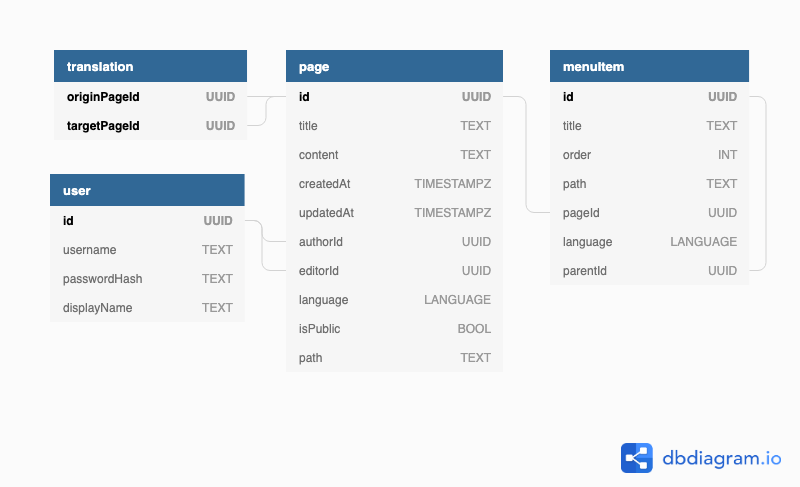
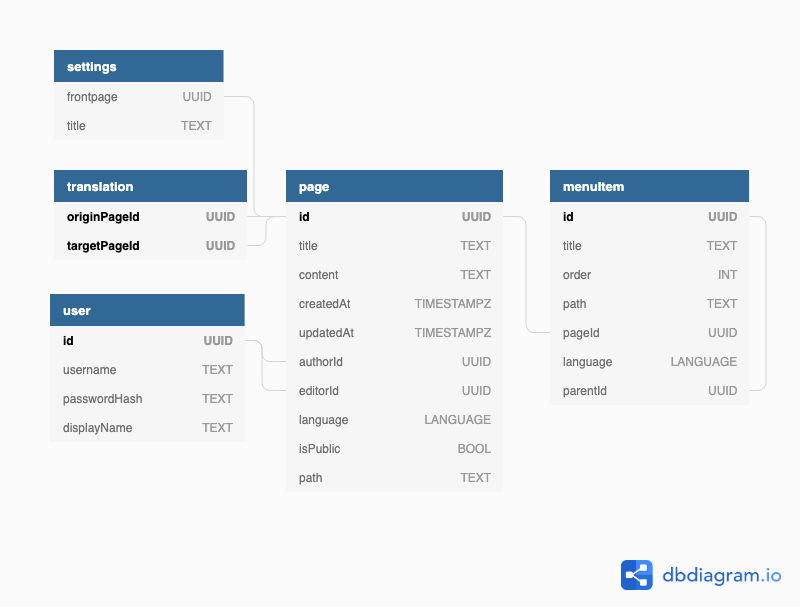
Add settings table

diff --git a/cms/migrations/1603557012887-AddSettingsTable.ts b/cms/migrations/1603557012887-AddSettingsTable.ts
@@ -1,0 +1,16 @@
+import {MigrationInterface, QueryRunner} from "typeorm";
+
+export class AddSettingsTable1603557012887 implements MigrationInterface {
+    name = 'AddSettingsTable1603557012887'
+
+    public async up(queryRunner: QueryRunner): Promise<void> {
+        await queryRunner.query(`CREATE TABLE "settings" ("id" uuid NOT NULL DEFAULT uuid_generate_v4(), "title" text NOT NULL, "frontpageId" uuid NOT NULL, CONSTRAINT "PK_0669fe20e252eb692bf4d344975" PRIMARY KEY ("id"))`);
+        await queryRunner.query(`ALTER TABLE "settings" ADD CONSTRAINT "FK_529b3a7d4badb6f8181786ea87e" FOREIGN KEY ("frontpageId") REFERENCES "page"("id") ON DELETE NO ACTION ON UPDATE NO ACTION`);
+    }
+
+    public async down(queryRunner: QueryRunner): Promise<void> {
+        await queryRunner.query(`ALTER TABLE "settings" DROP CONSTRAINT "FK_529b3a7d4badb6f8181786ea87e"`);
+        await queryRunner.query(`DROP TABLE "settings"`);
+    }
+
+}

diff --git a/cms/src/app.module.ts b/cms/src/app.module.ts
@@ -5,6 +5,7 @@ import { AuthModule } from './auth/auth.module';
 import { PagesModule } from './pages/pages.module';
 import { SeederModule } from './seeder/seeder.module';
 import { MenuModule } from './menu/menu.module';
+import { SettingsModule } from './settings/settings.module';
 
 @Module({
   imports: [
@@ -20,6 +21,7 @@ import { MenuModule } from './menu/menu.module';
     PagesModule,
     SeederModule,
     MenuModule,
+    SettingsModule,
   ],
 })
 export class AppModule {}

diff --git a/cms/src/settings/settings.entity.ts b/cms/src/settings/settings.entity.ts
@@ -1,0 +1,25 @@
+import {
+  Entity,
+  Column,
+  PrimaryGeneratedColumn,
+  ManyToOne,
+  JoinColumn,
+} from 'typeorm';
+import { Page } from '../pages/page.entity';
+
+/**
+ * Single-row settings table.
+ */
+@Entity()
+export class Settings {
+  // Not used but required by TypeORM.
+  @PrimaryGeneratedColumn('uuid')
+  id: string;
+
+  @Column('text', { nullable: false })
+  title: string;
+
+  @ManyToOne(type => Page, { nullable: false })
+  @JoinColumn()
+  frontpage: Page;
+}

diff --git a/cms/src/settings/settings.module.ts b/cms/src/settings/settings.module.ts
@@ -1,0 +1,12 @@
+import { Module } from '@nestjs/common';
+import { SettingsService } from './settings.service';
+import { SettingsController } from './settings.controller';
+import { TypeOrmModule } from '@nestjs/typeorm';
+import { Settings } from './settings.entity';
+
+@Module({
+  imports: [TypeOrmModule.forFeature([Settings])],
+  providers: [SettingsService],
+  controllers: [SettingsController],
+})
+export class SettingsModule {}

diff --git a/cms/src/settings/settings.controller.ts b/cms/src/settings/settings.controller.ts
@@ -1,0 +1,4 @@
+import { Controller } from '@nestjs/common';
+
+@Controller('settings')
+export class SettingsController {}

diff --git a/cms/src/settings/settings.service.ts b/cms/src/settings/settings.service.ts
@@ -1,0 +1,4 @@
+import { Injectable } from '@nestjs/common';
+
+@Injectable()
+export class SettingsService {}
